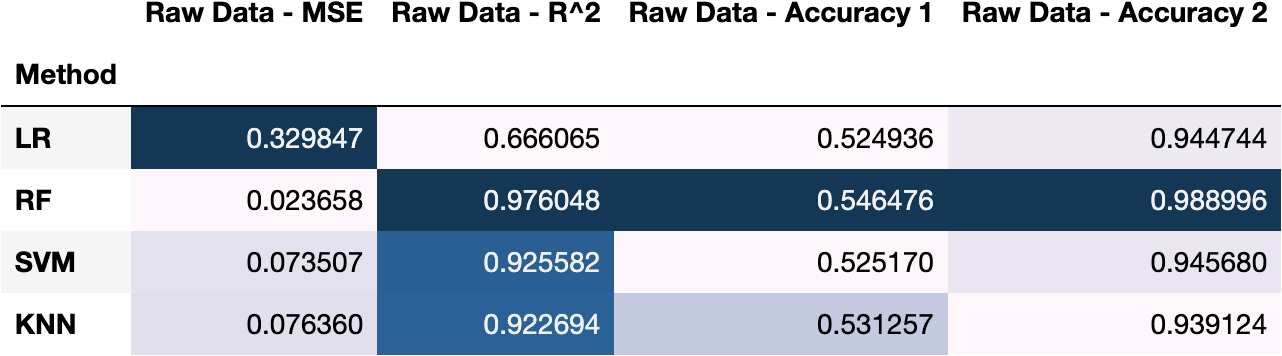
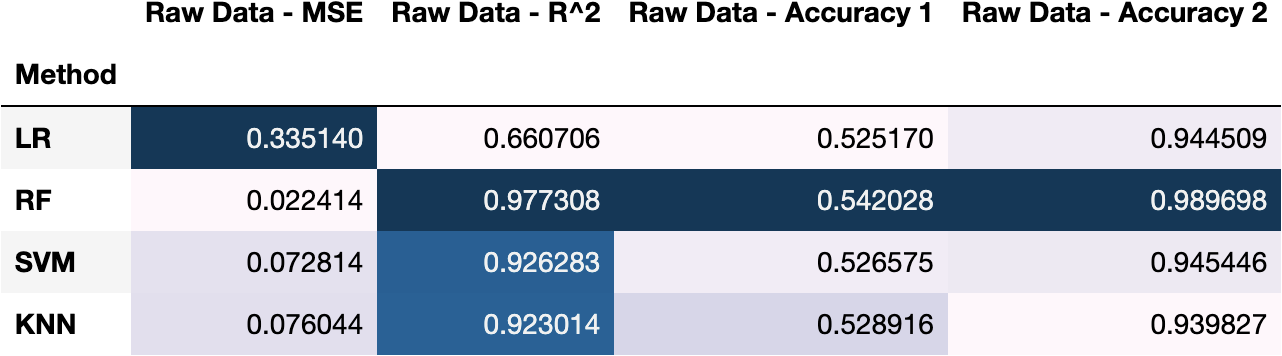
PCA Method

diff --git a/synthetic_gaussian_ik.py b/synthetic_gaussian_ik.py
@@ -3,6 +3,7 @@ from model.supervised_learning import *
 from model.ols import *
 import seaborn as sns
 import matplotlib.pyplot as mp
+from model.unsupervised_learning import *
 
 # Synthetic Data (Gaussian) IK Data
 df = pd.read_excel('ik_gaussian.xlsx', index_col=0)
@@ -35,18 +36,19 @@ sns.set(rc={'figure.figsize': (20, 20)})
 sns.heatmap(df_corr, center=0, annot=True)
 mp.show()
 
-data_after_dummy.drop(['TRADES', 'TAM_VWAP', 'TAM_TRADES', 'RTW_CONC',
-                       'HFA_TRADES', 'HFA_IMS', 'HFA_VWAP'], axis=1, inplace=True)
+data_without_collinear = data_after_dummy.drop(['TRADES', 'TAM_VWAP', 'TAM_TRADES', 'RTW_CONC',
+                                                'HFA_TRADES', 'HFA_IMS', 'HFA_VWAP', 'lnTAM_VOLUME'], axis=1,
+                                               inplace=False)
 
 # ols
-y = data_after_dummy['CONC'].values
-x = data_after_dummy.drop(['CONC'], axis=1, inplace=False).values
+y = data_without_collinear['CONC'].values
+x = data_without_collinear.drop(['CONC'], axis=1, inplace=False).values
 pred, print_ols = build_ordinary_least_square(x, y)
 save_text_as_png(print_ols, 'gaussian_ik')
 
 # Machine Learning
 # Data need to be normalized and standardized when we do machine learning
-normalized_synthetic_data = norm_standard(data_after_dummy)
+normalized_synthetic_data = norm_standard(data_without_collinear)
 
 # Regression: y is concentration rate, x -- other variables
 y1 = normalized_synthetic_data.iloc[:, 2].values
@@ -55,10 +57,10 @@ X1 = normalized_synthetic_data.drop(2, axis=1, inplace=False).values
 # Classification
 # Label y1 -- Buy Sell Type: 'S' and 'B'. 'S' is 1, 'B' is 0
 # Label y2 -- Instrument Type: 'E' and 'F. 'F' is 1. 'E' is 0
-y2 = data_after_dummy['BuySellType_S'].values
-X2 = norm_standard(data_after_dummy.drop(['BuySellType_S'], axis=1, inplace=False)).values
-y3 = data_after_dummy['InstrumentType_F'].values
-X3 = norm_standard(data_after_dummy.drop(['InstrumentType_F'], axis=1, inplace=False)).values
+y2 = data_without_collinear['BuySellType_S'].values
+X2 = norm_standard(data_without_collinear.drop(['BuySellType_S'], axis=1, inplace=False)).values
+y3 = data_without_collinear['InstrumentType_F'].values
+X3 = norm_standard(data_without_collinear.drop(['InstrumentType_F'], axis=1, inplace=False)).values
 
 # Split Dataset: Train and Test
 x_train_1, x_test_1, y1_train, y1_test = create_train_test_dataset(X1, y1)
@@ -76,7 +78,8 @@ result1 = comparison_regression(model_list, x_train_1, x_test_1, y1_train, y1_te
 result2 = comparison_classification(model_list, x_train_2, x_test_2, y2_train, y2_test)
 result3 = comparison_classification(model_list, x_train_3, x_test_3, y3_train, y3_test)
 
-df_result1 = pd.DataFrame(result1, columns=['Method', 'Synthetic Data - MSE', 'Synthetic Data - R^2']).set_index(['Method'])
+df_result1 = pd.DataFrame(result1, columns=['Method', 'Synthetic Data - MSE', 'Synthetic Data - R^2']).set_index(
+    ['Method'])
 df_result2 = pd.DataFrame(result2, columns=['Method', 'Synthetic Data - Accuracy 1']).set_index(['Method'])
 df_result3 = pd.DataFrame(result3, columns=['Method', 'Synthetic Data - Accuracy 2']).set_index(['Method'])
 
@@ -91,3 +94,24 @@ save_dataframe_as_png(df_result1, "gaussian_ik_regression")
 save_dataframe_as_png(df_result2, "gaussian_ik_buy_sell_class")
 save_dataframe_as_png(df_result3, "gaussian_ik_E_F_class")
 save_dataframe_as_png(df_all_result, "gaussian_ik_all")
+
+# Unsupervised Learning
+# PCA
+print("===================================")
+print("***********************************")
+print(data_after_dummy.info())
+print(data_after_dummy)
+pca_x = data_after_dummy.drop(['CONC'], axis=1, inplace=False)
+pca_y = data_after_dummy['CONC']
+principalComponents, principal_df, t_value = build_principal_component_analysis(standard(data_after_dummy), 5)
+print("T value: %f" % t_value)  # T value: 0.711452
+
+X_pca = principal_df.values
+y_pca = pca_y.values
+x_pca_train, x_pca_test, y_pca_train, y_pca_test = create_train_test_dataset(X_pca, y_pca)
+result4 = comparison_regression(model_list, x_pca_train, x_pca_test, y_pca_train, y_pca_test)
+
+df_result4 = pd.DataFrame(result4, columns=['Method', 'MSE', 'R Square']).set_index(['Method'])
+print(df_result4)
+
+save_dataframe_as_png(df_result4, "pca_gaussian_ik_regression")

diff --git a/raw_ik_vs.py b/raw_ik_vs.py
@@ -1,10 +1,9 @@
-import copy
-
 import numpy as np
 from model.supervised_learning import *
 from model.ols import *
 import matplotlib.pyplot as mp
 import seaborn as sns
+from model.unsupervised_learning import *
 
 # Raw Data
 df = pd.read_excel('cleaned_ik.xlsx', index_col=0)
@@ -32,17 +31,19 @@ sns.set(rc={'figure.figsize': (20, 20)})
 sns.heatmap(df_corr, center=0, annot=True)
 mp.show()
 
-data_after_dummy.drop(['RTW_IMS', 'TAM_IMS', 'TRADES', 'HFA_IMS', 'TAM_TRADES'], axis=1, inplace=True)
+data_without_collinear = data_after_dummy.drop(['RTW_IMS', 'TAM_IMS', 'TRADES', 'HFA_IMS', 'TAM_TRADES', 'TAM_VWAP'],
+                                               axis=1, inplace=False)
 
 # ols
-y = data_after_dummy['CONC'].values
-x = data_after_dummy.drop(['CONC'], axis=1, inplace=False).values
+y = data_without_collinear['CONC'].values
+x = data_without_collinear.drop(['CONC'], axis=1, inplace=False).values
 pred, print_ols = build_ordinary_least_square(x, y)
+print(print_ols)
 save_text_as_png(print_ols, 'raw_ik')
 
-# Machine Learning
-# Data need to be standardized
-normalized_raw_data = norm_standard(data_after_dummy)
+# Supervised Learning
+# Data need to be normalized and standardized
+normalized_raw_data = norm_standard(data_without_collinear)
 
 # Regression: y is concentration rate, x -- other variables
 y1 = normalized_raw_data.iloc[:, 2].values
@@ -51,10 +52,10 @@ X1 = normalized_raw_data.drop(2, axis=1, inplace=False).values  # column number:
 # Classification
 # Label y1 -- Buy Sell Type: 'S' and 'B'. 'S' is 1, 'B' is 0
 # Label y2 -- Instrument Type: 'E' and 'F. 'F' is 1. 'E' is 0
-y2 = data_after_dummy['BuySellType_S'].values
-X2 = norm_standard(data_after_dummy.drop(['BuySellType_S'], axis=1, inplace=False)).values
-y3 = data_after_dummy['InstrumentType_F'].values
-X3 = norm_standard(data_after_dummy.drop(['InstrumentType_F'], axis=1, inplace=False)).values
+y2 = data_without_collinear['BuySellType_S'].values
+X2 = norm_standard(data_without_collinear.drop(['BuySellType_S'], axis=1, inplace=False)).values
+y3 = data_without_collinear['InstrumentType_F'].values
+X3 = norm_standard(data_without_collinear.drop(['InstrumentType_F'], axis=1, inplace=False)).values
 
 # Split Dataset: Train and Test
 raw_x_train_1, raw_x_test_1, raw_y1_train, raw_y1_test = create_train_test_dataset(X1, y1)
@@ -87,3 +88,23 @@ save_dataframe_as_png(df_result1, "raw_ik_regression")
 save_dataframe_as_png(df_result2, "raw_ik_buy_sell_class")
 save_dataframe_as_png(df_result3, "raw_ik_E_F_class")
 save_dataframe_as_png(df_all_result, "raw_ik_all")
+
+# Unsupervised Learning
+# PCA
+print("===================================")
+print("***********************************")
+pca_x = data_after_dummy.drop(['CONC'], axis=1, inplace=False)
+pca_y = data_after_dummy['CONC']
+n_component = 5
+principalComponents, principal_df, t_value = build_principal_component_analysis(standard(pca_x), n_component)
+print("T value: %f" % t_value)   # when n = 5, T value: 0.659596
+principal_df.columns = ['pc1', 'pc2', 'pc3', 'pc4', 'pc5']
+print(principal_df)
+
+X_pca = principal_df.values
+y_pca = pca_y.values
+x_pca_train, x_pca_test, y_pca_train, y_pca_test = create_train_test_dataset(X_pca, y_pca)
+result4 = comparison_regression(model_list, x_pca_train, x_pca_test, y_pca_train, y_pca_test)
+
+df_result4 = pd.DataFrame(result4, columns=['Method', 'MSE', 'R Square']).set_index(['Method'])
+save_dataframe_as_png(df_result4, "pca_raw_ik_regression")

diff --git a/model/unsupervised_learning.py b/model/unsupervised_learning.py
@@ -1,14 +1,6 @@
 import pandas as pd
 import numpy as np
-from sklearn.model_selection import train_test_split
-from sklearn import linear_model
-from sklearn.metrics import mean_squared_error, accuracy_score, r2_score
-from sklearn.ensemble import RandomForestClassifier, RandomForestRegressor
-from sklearn.model_selection import GridSearchCV, RandomizedSearchCV
-from sklearn.svm import SVC, SVR
-
-from sklearn.preprocessing import MinMaxScaler
-from sklearn.preprocessing import StandardScaler
+from sklearn.decomposition import PCA
 
 
 def standard(df):
@@ -18,10 +10,10 @@ def standard(df):
     return (df - mu) / sigma
 
 
-def create_train_test_dataset(x, y):
-    x_train, x_test, y_train, y_test = train_test_split(x, y, test_size=0.3, random_state=0)  # 70% training 30% test
-    return x_train, x_test, y_train, y_test
-
-
-
-
+def build_principal_component_analysis(df, n_component):
+    pca = PCA(n_components=n_component)
+    principalComponents = pca.fit_transform(df)
+    principal_df = pd.DataFrame(data=principalComponents)
+    t_value_array = pca.explained_variance_ratio_
+    t_value = np.sum(t_value_array)
+    return principalComponents, principal_df, t_value
